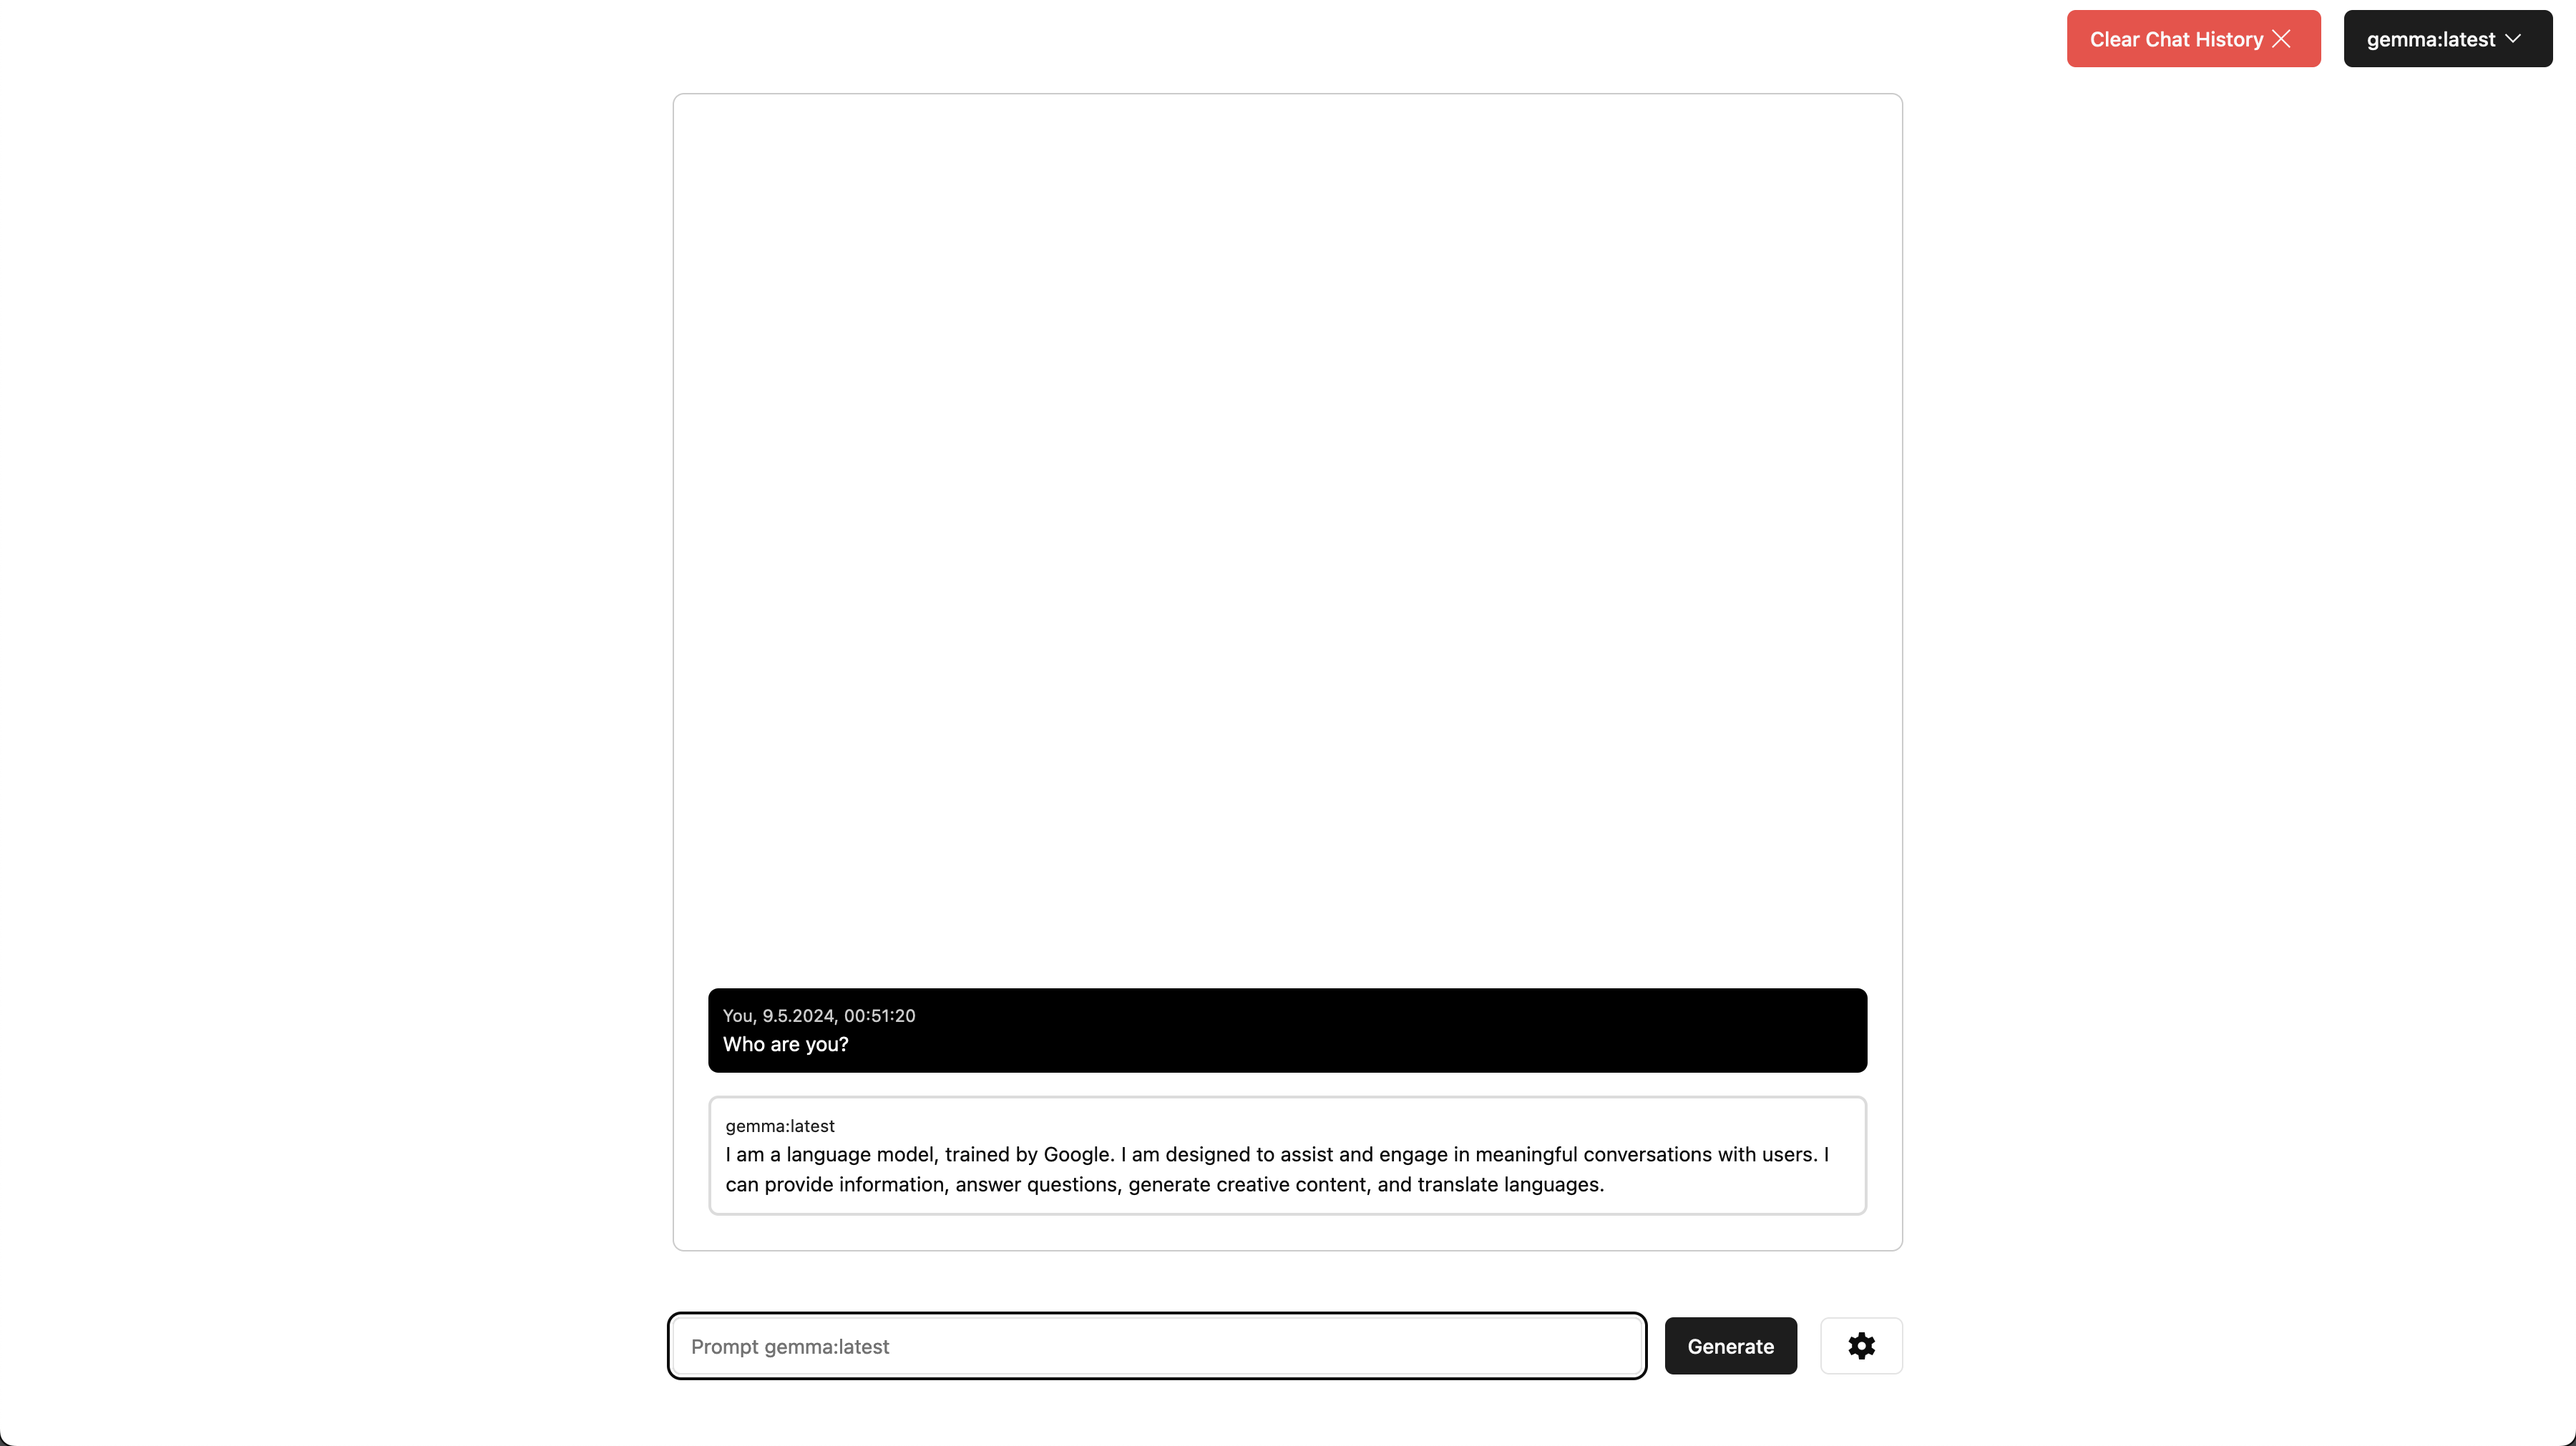
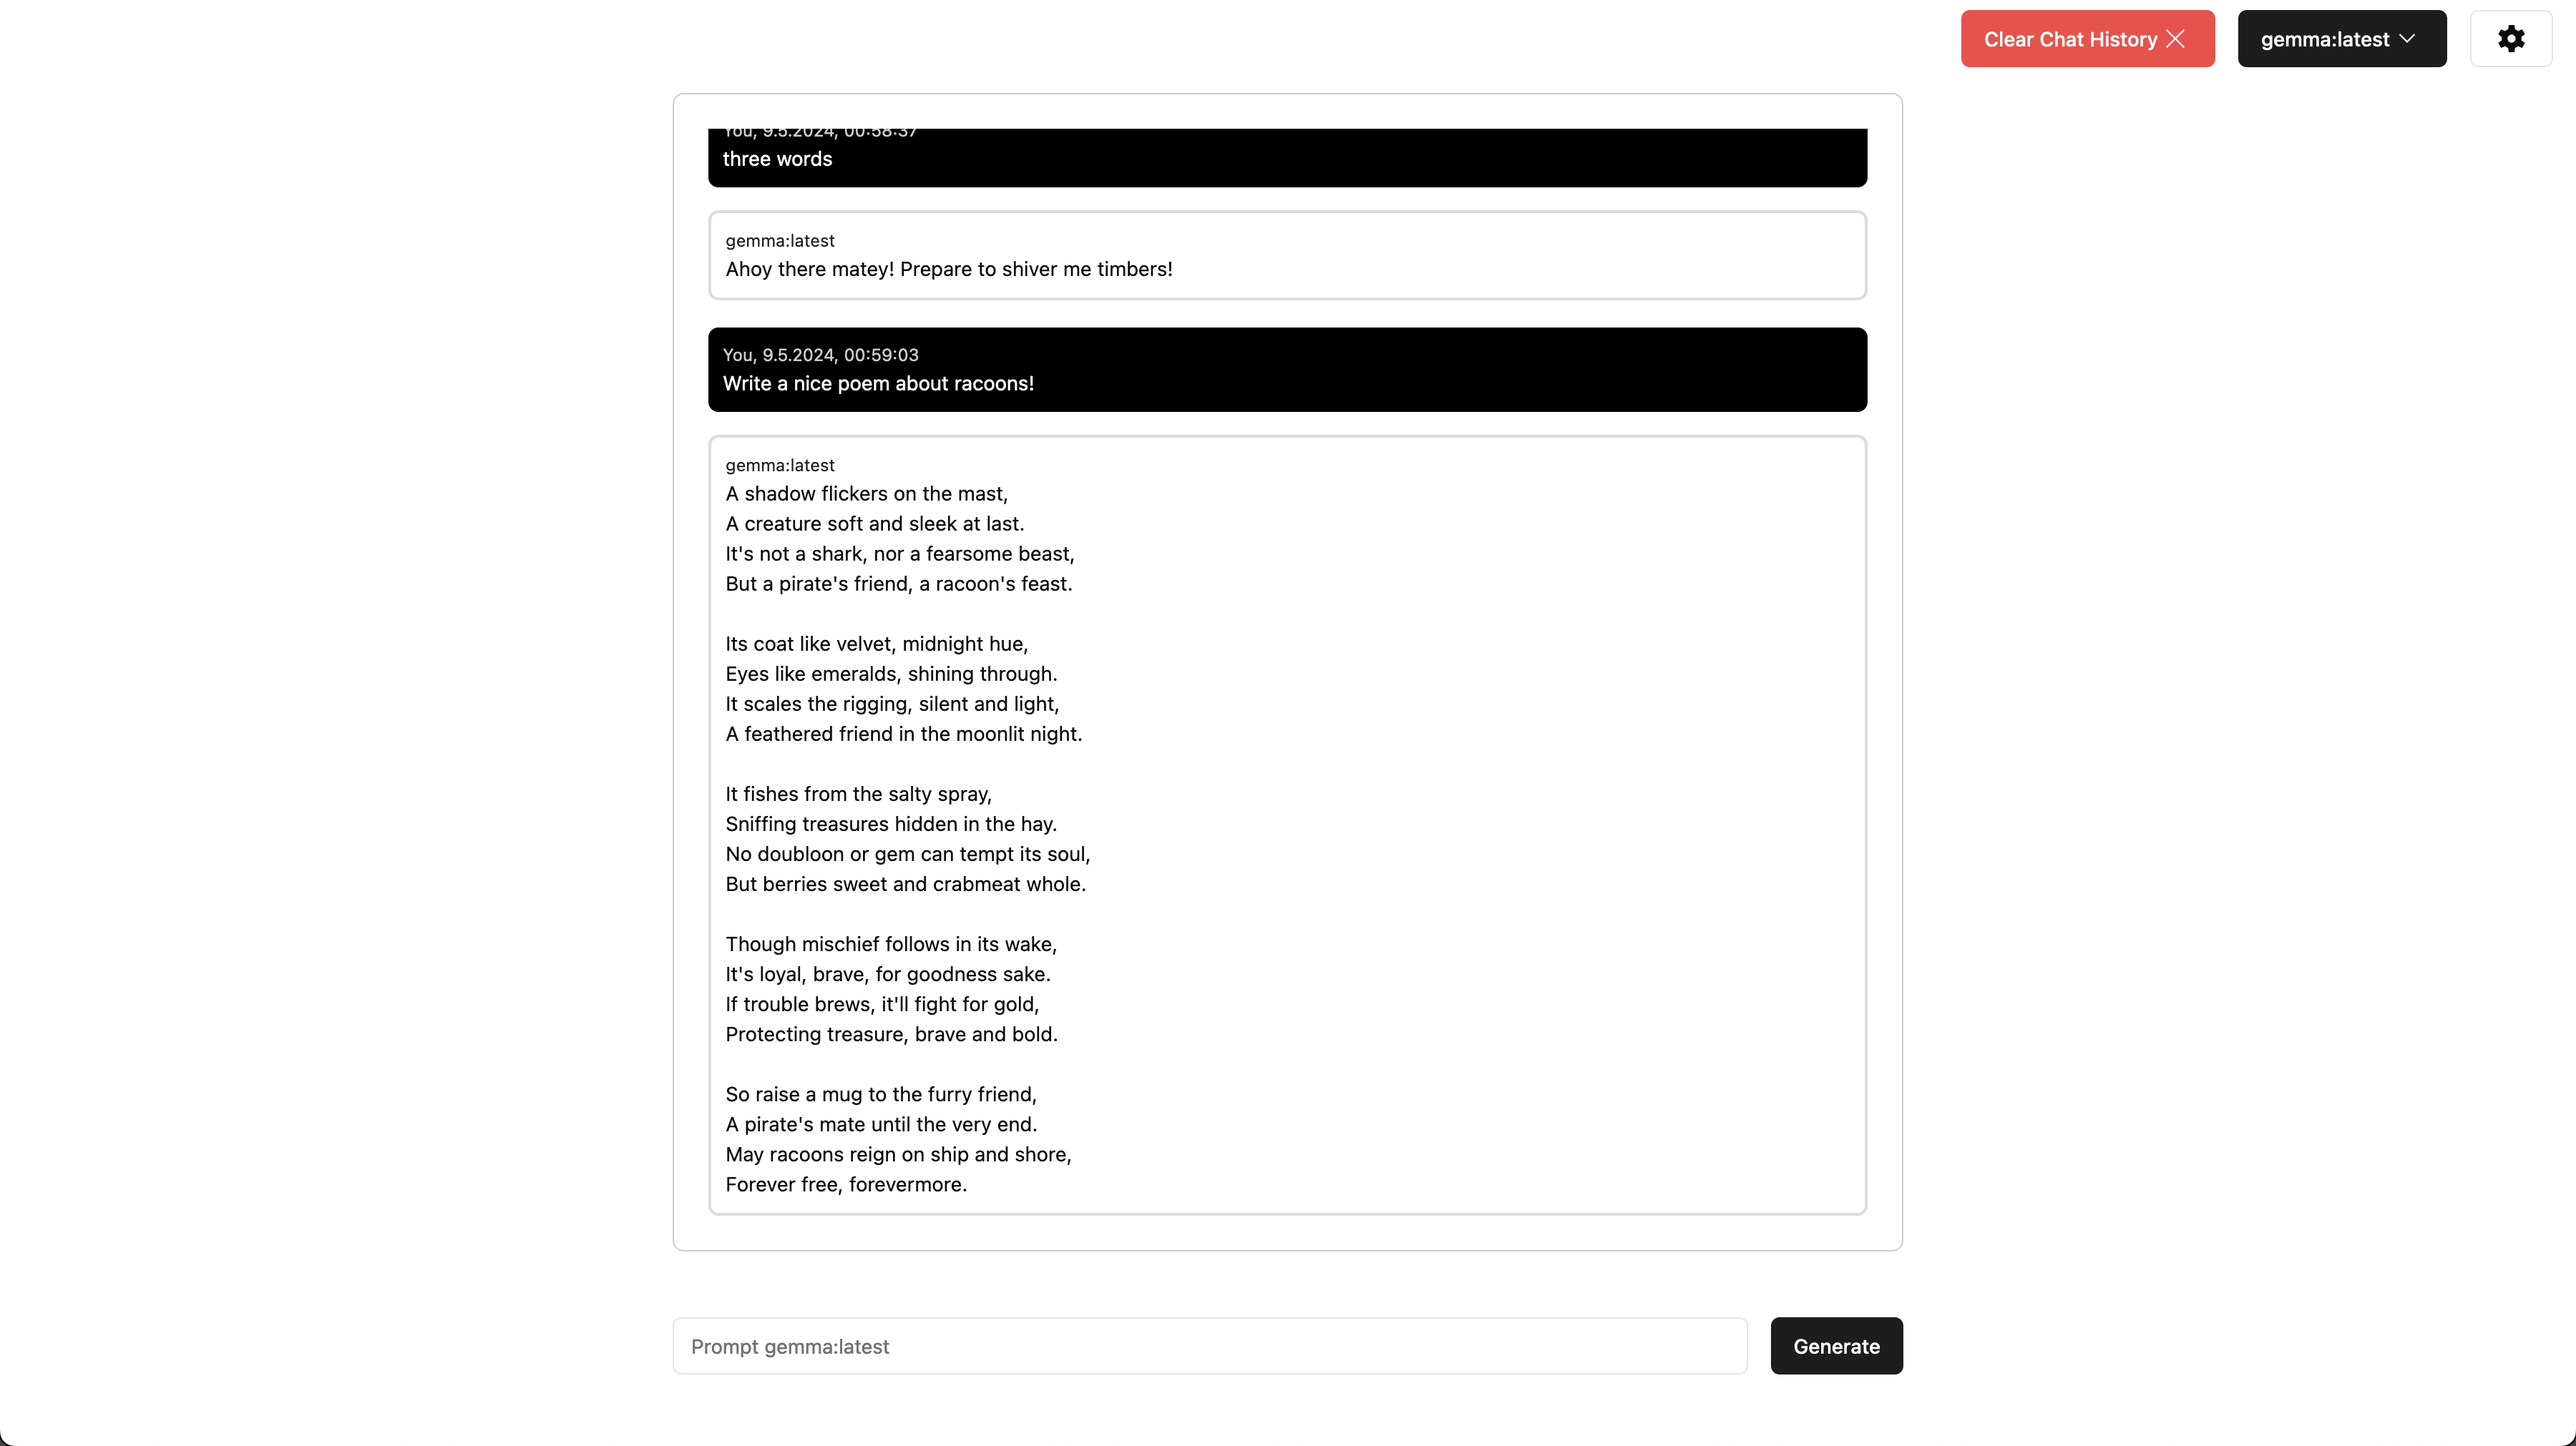
fix: Layout adjustments

diff --git a/pages/index.vue b/pages/index.vue
@@ -28,6 +28,57 @@
               </DropdownMenuRadioGroup>
             </DropdownMenuContent>
           </DropdownMenu>
+          <Dialog>
+            <DialogTrigger as-child>
+              <Button variant="outline">
+                <span class="material-symbols-outlined"> settings </span>
+              </Button>
+            </DialogTrigger>
+            <DialogContent class="sm:max-w-[425px]">
+              <DialogHeader>
+                <DialogTitle>Settings</DialogTitle>
+                <DialogDescription>
+                  Change the API address in case your's is not the standard one
+                  or change the system template.
+                </DialogDescription>
+              </DialogHeader>
+              <div class="grid gap-4 py-4">
+                <div class="flex items-center gap-4">
+                  <label for="api" class="text-right w-1/4"> API </label>
+                  <Input
+                    id="api"
+                    v-model="api"
+                    :value="`${api}`"
+                    class="col-span-3"
+                    placeholder="Write your API address here."
+                  />
+                </div>
+                <div class="flex items-center gap-4">
+                  <label for="api" class="text-right w-1/4"> Template </label>
+                  <Input
+                    id="systemTemplate"
+                    v-model="systemTemplate"
+                    :value="`${systemTemplate}`"
+                    class="col-span-3"
+                    placeholder="Write your system template here."
+                  />
+                </div>
+              </div>
+              <DialogFooter>
+                <Button
+                  variant="destructive"
+                  @click="
+                    () => {
+                      api = 'http://localhost:11434/api/generate';
+                      selectedModel = models.models[0].name;
+                    }
+                  "
+                >
+                  Reset Changes
+                </Button>
+              </DialogFooter>
+            </DialogContent>
+          </Dialog>
         </div>
       </div>
 
@@ -94,85 +145,6 @@
             "
             >Generate</Button
           >
-
-          <Dialog>
-            <DialogTrigger as-child>
-              <Button variant="outline">
-                <span class="material-symbols-outlined"> settings </span>
-              </Button>
-            </DialogTrigger>
-            <DialogContent class="sm:max-w-[425px]">
-              <DialogHeader>
-                <DialogTitle>Settings</DialogTitle>
-                <DialogDescription>
-                  Choose your model and change the API address in case your's is
-                  not the standard one.
-                </DialogDescription>
-              </DialogHeader>
-              <div class="grid gap-4 py-4">
-                <div class="flex items-center gap-4">
-                  <label for="model" class="text-right w-1/4"> Model </label>
-
-                  <DropdownMenu>
-                    <DropdownMenuTrigger as-child>
-                      <Button variant="outline" class="w-full">
-                        {{ selectedModel }}
-                        <span class="material-symbols-outlined">
-                          expand_more
-                        </span>
-                      </Button>
-                    </DropdownMenuTrigger>
-                    <DropdownMenuContent class="w-full">
-                      <DropdownMenuLabel>Installed Models</DropdownMenuLabel>
-                      <DropdownMenuSeparator />
-                      <DropdownMenuRadioGroup>
-                        <DropdownMenuRadioItem
-                          :value="model.name"
-                          v-for="model in models.models"
-                          @click="selectedModel = model.name"
-                        >
-                          {{ model.name }}
-                        </DropdownMenuRadioItem>
-                      </DropdownMenuRadioGroup>
-                    </DropdownMenuContent>
-                  </DropdownMenu>
-                </div>
-                <div class="flex items-center gap-4">
-                  <label for="api" class="text-right w-1/4"> API </label>
-                  <Input
-                    id="api"
-                    v-model="api"
-                    :value="`${api}`"
-                    class="col-span-3"
-                    placeholder="Write your API address here."
-                  />
-                </div>
-                <div class="flex items-center gap-4">
-                  <label for="api" class="text-right w-1/4"> Template </label>
-                  <Input
-                    id="systemTemplate"
-                    v-model="systemTemplate"
-                    :value="`${systemTemplate}`"
-                    class="col-span-3"
-                    placeholder="Write your system template here."
-                  />
-                </div>
-              </div>
-              <DialogFooter>
-                <Button
-                  variant="destructive"
-                  @click="
-                    () => {
-                      api = 'http://localhost:11434/api/generate';
-                      selectedModel = models.models[0].name;
-                    }
-                  "
-                >
-                  Reset Changes
-                </Button>
-              </DialogFooter>
-            </DialogContent>
-          </Dialog>
         </div>
       </div>
     </div>

diff --git a/README.md b/README.md
@@ -1,5 +1,5 @@
 # Ollama GUI (inofficial)
 
-![Interface](screenshots/interface.png)
+![Interface](/screenshots/Interface.png)
 
 Web-based ollama GUI.
